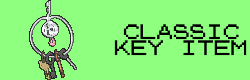
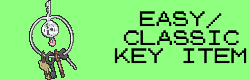
1.4 Update
Updates some small things and adds support for new randomizer presets

Changed region(s): [[0.448, 0.125, 1.0, 0.8]]

diff --git a/README.md b/README.md
@@ -53,11 +53,15 @@ If the option is crossed out, it is disabled and not part of the logic of the tr
 Presets have been added under the gear icon at the top right of the item tracker, corresponding with the presets in ERC's Item Randomizer.
 
 1. ![Standard Full Item](images/presets/standard_full.png "Standard Full Item") Standard Full Item randomizer.
-2. ![Old Standard Full Item](images/presets/old_standard_full.png "Old Standard Full Item") Old Standard Full Item randomizer (same as Standard, but Ilex Cut Tree is not removed).
-3. ![Tricky Full Item](images/presets/tricky_full.png "Tricky Full Item") Tricky Full Item randomizer (adds PokeGear, Radio/Expansion Cards, Pokedex, and Tin Tower to logic).
-4. ![Vintage Full Item](images/presets/vintage_full.png "Vintage Full Item") Vintage Full Item randomizer (replicates vanilla Crystal as close as possible).
-5. ![Classic Key Item](images/presets/classic_key.png "Classic Key Item") Classic Key Item randomizer.
-6. ![Neo Key Item](images/presets/neo_key.png "Neo Key Item") Neo Key Item randomizer (a new twist on Key Item Randomizer).
+2. ![Easy Full Item](images/presets/easy_full.png "Easy Full Item") Easy Full Item randomizer (same as Standard, but with a few Easy settings, see below).
+3. ![Old Standard Full Item](images/presets/old_standard_full.png "Old Standard Full Item") Old Standard Full Item randomizer (same as Standard, but Ilex Cut Tree is not removed).
+4. ![Tricky/Extreme Full Item](images/presets/tricky_full.png "Tricky/Extreme Full Item") Tricky or Extreme Full Item randomizer (adds PokeGear, Radio/Expansion Cards, Pokedex, and Tin Tower to logic).
+5. ![Vintage Full Item](images/presets/vintage_full.png "Vintage Full Item") Vintage Full Item randomizer (replicates vanilla Crystal as close as possible).
+6. ![Easy/Classic Key Item](images/presets/classic_key.png "Easy/Classic Key Item") Classic or Easy Key Item randomizer (see below for Easy variant information).
+7. ![Neo/Extreme Key Item](images/presets/neo_key.png "Neo/Extreme Key Item") Neo or Extreme Key Item randomizer (new twists on Key Item Randomizer).
+
+The Extreme variants mixes badges into the item pool. This does not change how the tracker operates, but is noted here for convenience.
+The Easy variants guarantee early Fly access (follows early Bicycle logic), Backwards Kanto is never required, and none of the Kanto Gym leaders (except Janine) will be required until access to 7 other badges.
 
 Note: After using these presets, you can further customize your settings options as normal.
 

diff --git a/changelog.md b/changelog.md
@@ -1,4 +1,10 @@
 # Changelog
+## 1.4
+Removed Map Card because it will never be added to the randomizer\
+Added/Updates presets for new available presets\
+Updated logic on Rainbow Wing check to reflect a bug in the game code\
+Added defeating Morty as a requirement for access to Tin Tower
+
 ## 1.3.5
 Fixed errors in the Union Cave Map (was using a Gold/Silver map instead of a Crystal map)\
 Removed the Party Egg in Violet City (it was causing problems with the logic and doesn't add much usefullness to the tracker, IMO)\
